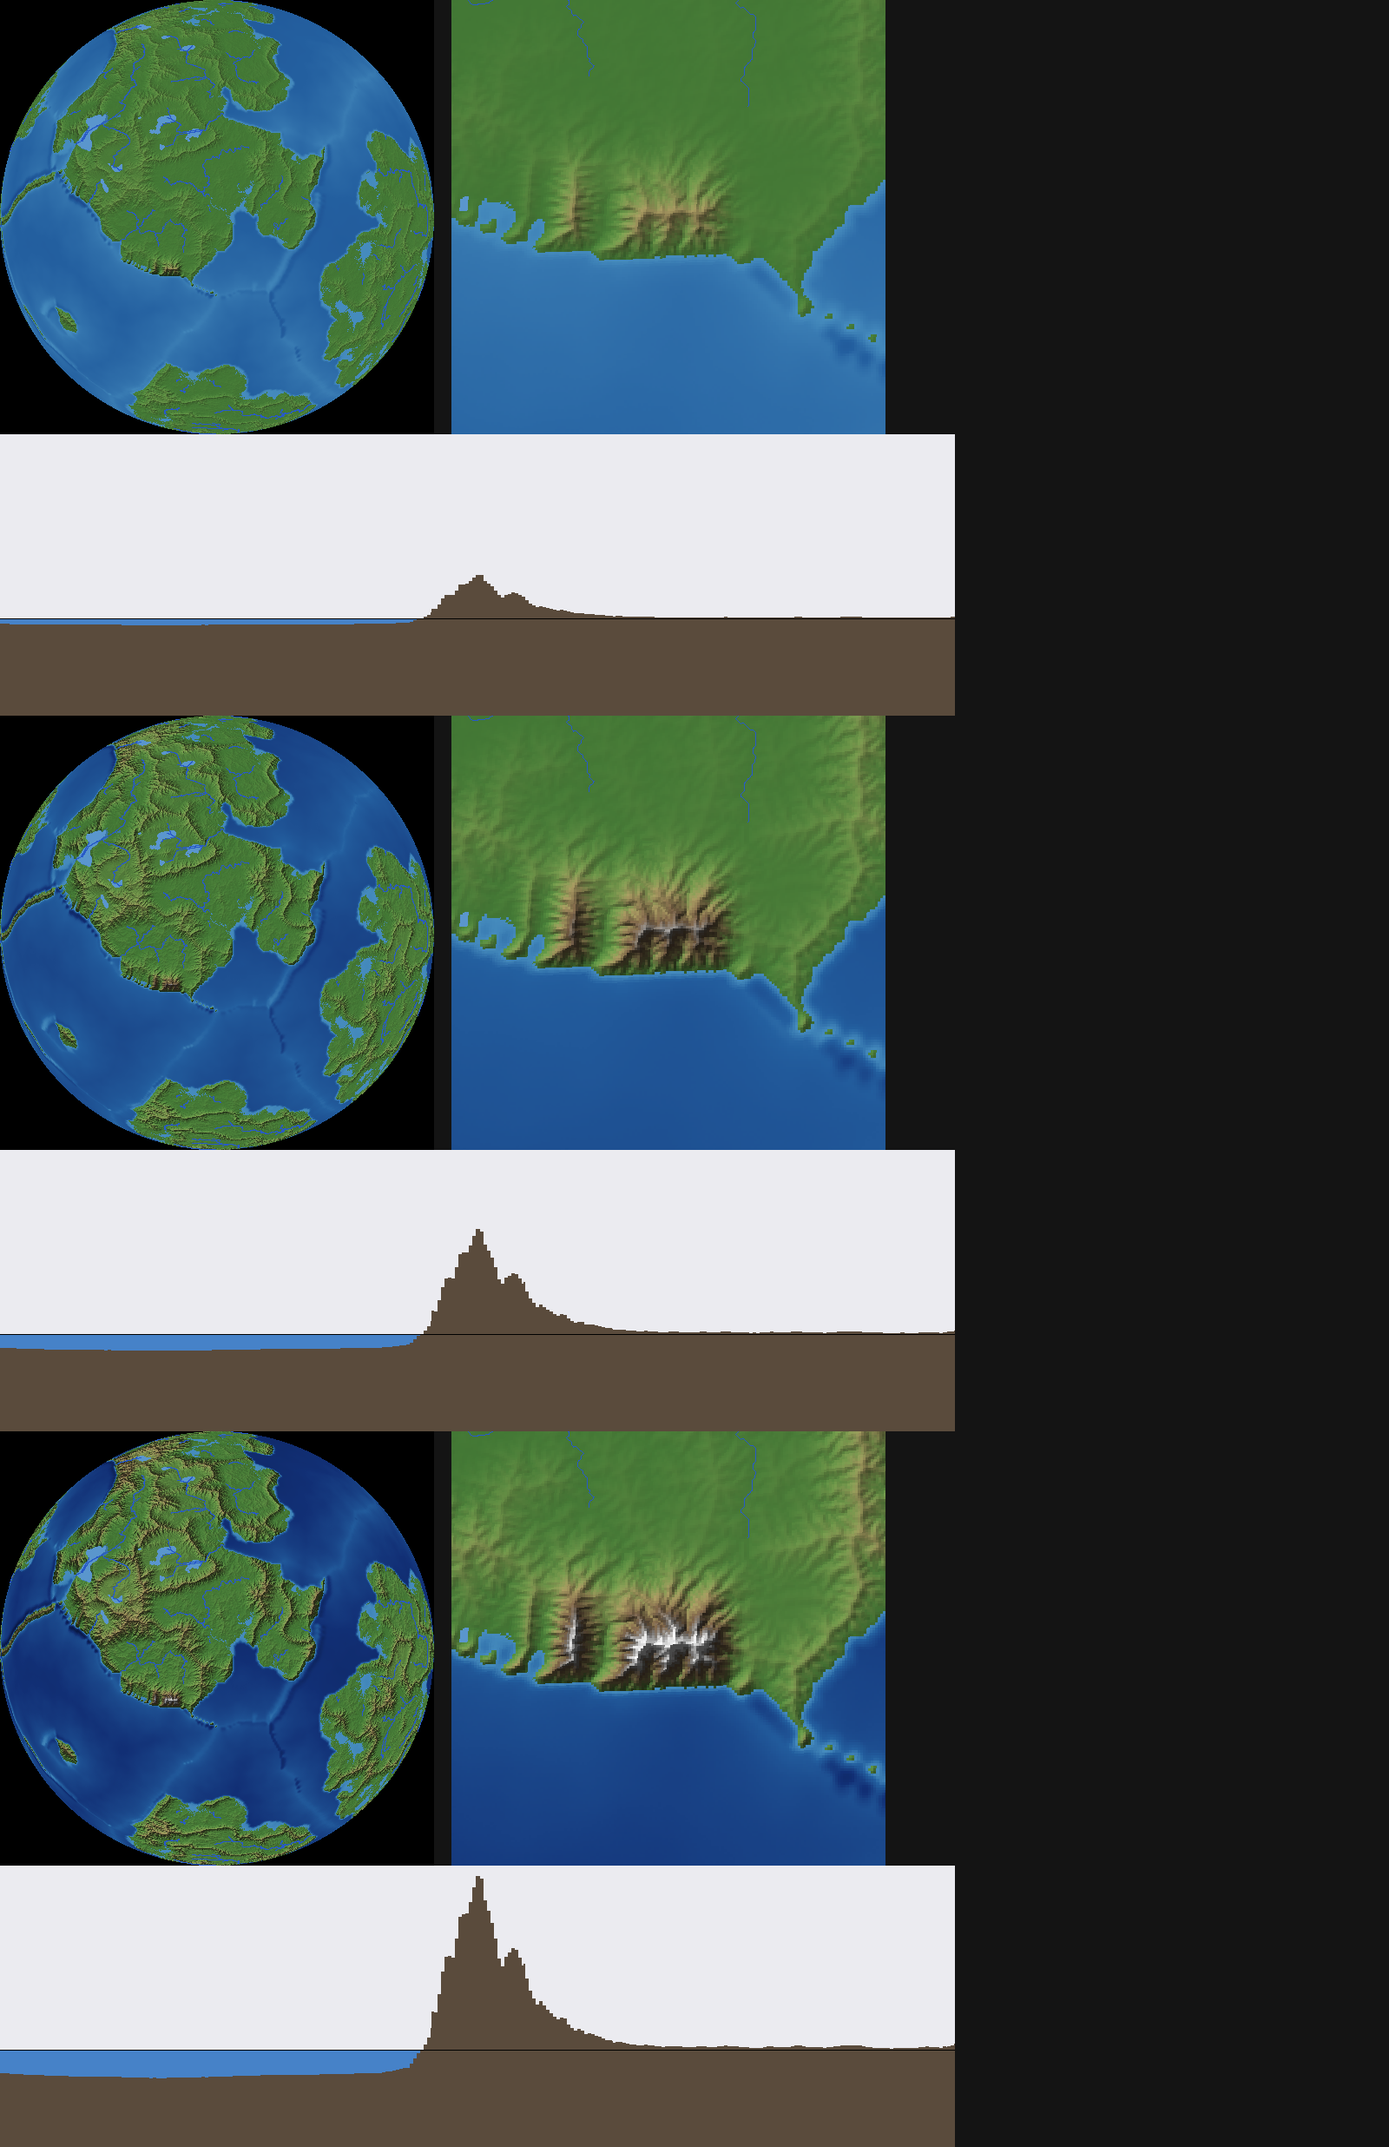
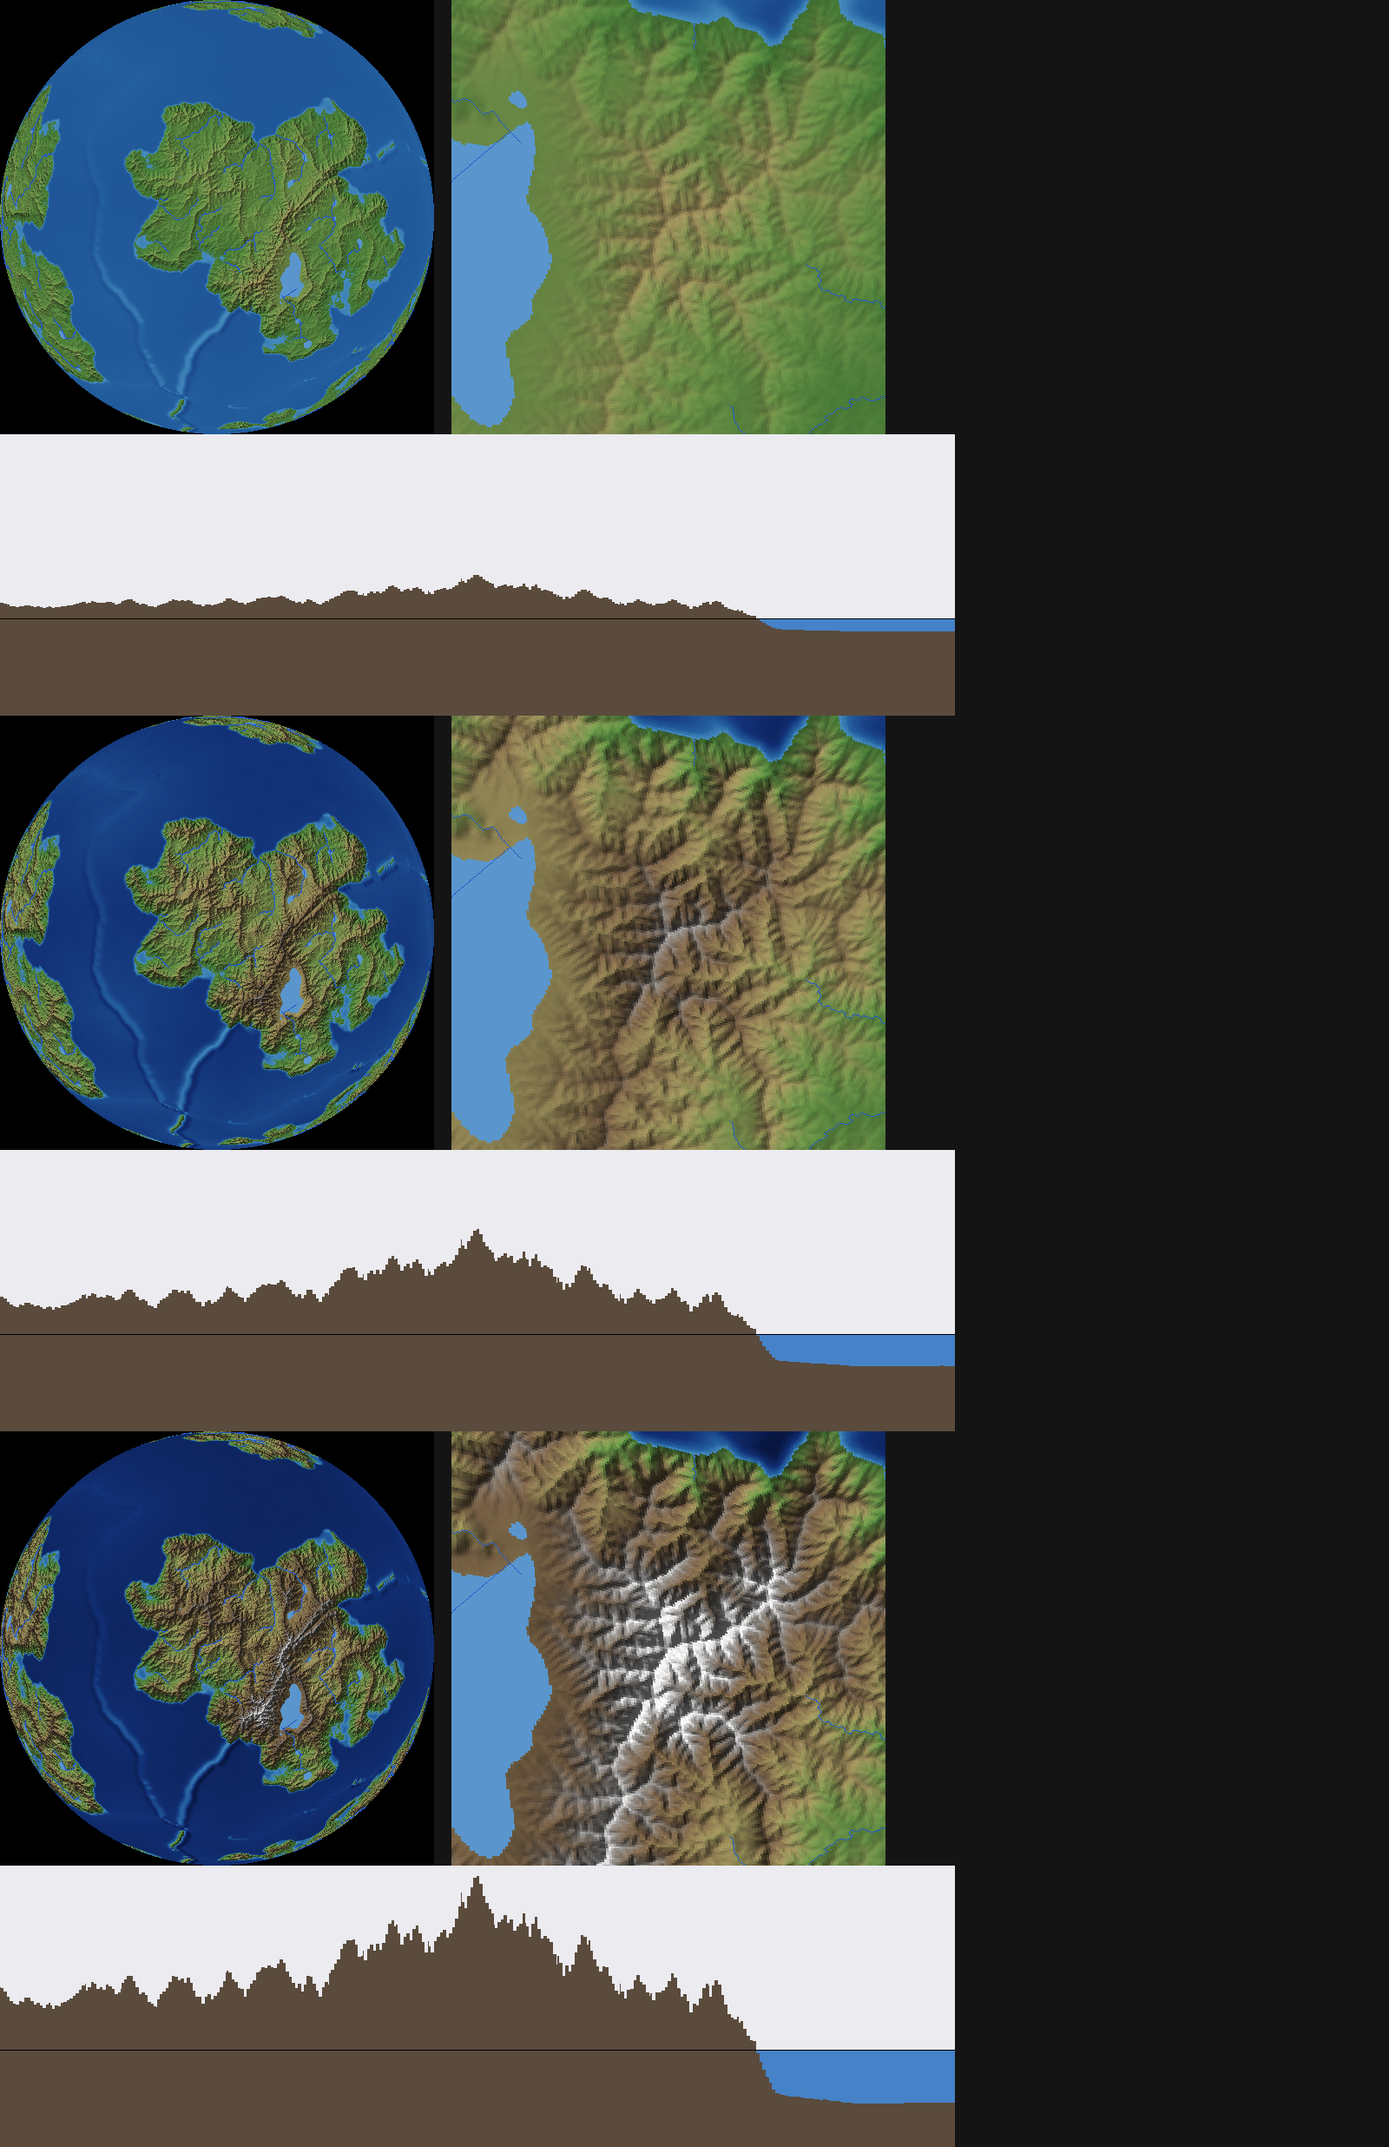
Raise the plains in the land bake, as the developer chose (worldgen W1)
The first bake left half of Terra's land within 1.5 m of the sea: mountains
only at plate edges. The developer picked "higher plains". The uplift inside
continents (old shields 0.05 to 0.35, old ranges 0.35 to 0.8, now Params)
and twice the coarse erosion steps put the median land at 8.4 m, p90 17 m,
for 50 m peaks. The price is more small lakes (117 on seed 1).

Terra now bakes in 18.4 s and the huge planet in 99.3 s; the huge planet's
file is 9.8 MB. The same seed still bakes the same hash; the rivers test and
the 12 seeds all drain. Sheets redrawn.

diff --git a/prototypes/world-bake/src/main.rs b/prototypes/world-bake/src/main.rs
@@ -21,6 +21,8 @@ fn main() {
     p.cell_m = num("cell", p.cell_m);
     p.coarse_iters = num("coarse_iters", p.coarse_iters as f64) as usize;
     p.fine_iters = num("fine_iters", p.fine_iters as f64) as usize;
+    p.shield_uplift = num("shield", p.shield_uplift);
+    p.old_range_uplift = num("old", p.old_range_uplift);
     let planet = num("planet", 12288.0) as u32;
     let out = PathBuf::from(args.get("out").map_or("out", String::as_str));
     std::fs::create_dir_all(&out).unwrap();
@@ -205,8 +207,11 @@ fn report(b: &Bake, seed: u64, planet: u32, p: &Params, disk: u64) {
     let (ws, commit) = peak_mb();
     let times: Vec<String> = b.times.iter().map(|(k, v)| format!("\"{k}\":{v:.2}")).collect();
     let lake_cells: u32 = b.lakes.iter().map(|l| l.cells).sum();
+    let mut lh: Vec<f32> = (0..b.h.len()).filter(|&c| b.land(c)).map(|c| b.h[c].max(0.0)).collect();
+    lh.sort_by(f32::total_cmp);
+    let q = |f: f64| lh.get(((lh.len().max(1) - 1) as f64 * f) as usize).copied().unwrap_or(0.0);
     println!(
-        "{{\"seed\":{seed},\"planet\":{planet},\"radius_m\":{:.0},\"cells\":{},\"cell_m\":{},\"seconds\":{{{}}},\"total_s\":{total:.2},\"peak_ws_mb\":{ws:.0},\"peak_commit_mb\":{commit:.0},\"disk_bytes\":{disk},\"hash\":\"{:016x}\",\"land_share\":{:.3},\"top_m\":{:.1},\"deep_m\":{:.1},\"plates\":{},\"rivers\":{},\"lakes\":{},\"lake_cells\":{lake_cells},\"last_change_m\":[{:.4},{:.4}],\"drains\":{}}}",
+        "{{\"seed\":{seed},\"planet\":{planet},\"radius_m\":{:.0},\"cells\":{},\"cell_m\":{},\"seconds\":{{{}}},\"total_s\":{total:.2},\"peak_ws_mb\":{ws:.0},\"peak_commit_mb\":{commit:.0},\"disk_bytes\":{disk},\"hash\":\"{:016x}\",\"land_share\":{:.3},\"top_m\":{:.1},\"deep_m\":{:.1},\"plates\":{},\"rivers\":{},\"lakes\":{},\"lake_cells\":{lake_cells},\"land_p50_p90_p99_m\":[{:.1},{:.1},{:.1}],\"last_change_m\":[{:.4},{:.4}],\"drains\":{}}}",
         b.g.r,
         b.h.len(),
         p.cell_m,
@@ -218,6 +223,9 @@ fn report(b: &Bake, seed: u64, planet: u32, p: &Params, disk: u64) {
         b.plate.iter().max().map_or(0, |m| m + 1),
         b.rivers.len(),
         b.lakes.len(),
+        q(0.5),
+        q(0.9),
+        q(0.99),
         b.converged.0 * b.scale.0,
         b.converged.1 * b.scale.0,
         check_rivers(b).is_ok(),

diff --git a/prototypes/world-bake/src/bake.rs b/prototypes/world-bake/src/bake.rs
@@ -36,6 +36,10 @@ pub struct Params {
     /// A cell is a river when it drains this much, m^2.
     pub river_area_m2: f32,
     pub plates: (u32, u32),
+    /// Uplift inside continents, as a share of the peak's: the old shields' patchy rise, and old worn
+    /// ranges along ancient sutures. These raise the plains against the ranges at the plate edges.
+    pub shield_uplift: f64,
+    pub old_range_uplift: f64,
     /// The share of crust that is continental (a little over the land share: the lowest of it is shelf).
     pub continental: f32,
     /// Feature widths as shares of the radius: they scale with the planet (ADR 0021: continents do, hills
@@ -53,7 +57,7 @@ impl Default for Params {
             ocean_share: 0.55,
             cell_m: 8.0,
             coarse: 4,
-            coarse_iters: 160,
+            coarse_iters: 320,
             fine_iters: 24,
             k: 0.5,
             m_exp: 0.5,
@@ -61,6 +65,8 @@ impl Default for Params {
             uplift: 1.0,
             river_area_m2: 1.5e5,
             plates: (8, 14),
+            shield_uplift: 0.35,
+            old_range_uplift: 0.8,
             continental: 0.48,
             collision_w: 0.05,
             arc_w: 0.035,
@@ -300,9 +306,9 @@ pub fn tectonics(g: &Grid, seed: u64, p: &Params) -> Tectonics {
         let nz = at(&base, d, 6.0) as f64;
         if cont[c] {
             // old shields far inside: a slow, patchy rise that makes hills, not ranges
-            v += 0.05 * (1.0 + nz);
+            v += p.shield_uplift * (1.0 + nz);
             // old worn ranges along ancient sutures: the ridges of a low noise
-            v += 0.35 * (1.0 - 4.0 * at(&old, d, 2.2).abs() as f64).max(0.0);
+            v += p.old_range_uplift * (1.0 - 4.0 * at(&old, d, 2.2).abs() as f64).max(0.0);
         }
         for (s, a) in &spots {
             v += a * (-(d.dot(*s).clamp(-1., 1.).acos() * r / (p.arc_w * r * 0.5)).powi(2)).exp();

diff --git a/prototypes/world-bake/README.md b/prototypes/world-bake/README.md
@@ -6,11 +6,12 @@ erosion, sea level, then rivers and lakes. The budget proposal: 30 s for Terra, 
 under 10 MB on disk, under 100 MB of server RAM. The answers are measured below.
 
 **Answer.** Yes for time and seams; memory is over the proposal.
-- **Time:** Terra bakes in **13.8 s** and the huge planet in **70.7 s** (release build, this PC).
+- **Time:** Terra bakes in **18.4 s** and the huge planet in **99.3 s** (release build, this PC), with
+  the higher plains the developer chose (below).
 - **Determinism:** the same seed gives the same hash twice, and another seed a different one.
 - **Rivers:** every river runs downhill to the sea or a lake. This is a test, seen failing first.
 - **Seams:** the seams and corners do not show, after one fix (below).
-- **Disk:** the result is **2.3 MB** for Terra and **8.2 MB** for the huge planet, compressed. That is
+- **Disk:** the result is **2.7 MB** for Terra and **9.8 MB** for the huge planet, compressed. That is
   heights, plates and rivers only; W2's full record will be bigger.
 - **Memory (over the proposal):** the bake process peaks at **174 MB** for Terra and **673 MB** for the
   huge planet.
@@ -49,7 +50,7 @@ the equi-angular warp (ADR 0003). A map cell therefore lines up with chunks.
 | grid | neighbours, distances, areas | Neighbours past a face edge come from the extended face's 3D point, found again on the sphere. Every distance is the chord and every cell area the true one, so no step knows where a face ends. Corner cells have 7 neighbours. | ADR 0003 |
 | 1 | plates | Voronoi growth on the sphere (multi-source Dijkstra) from 8 to 14 random seeds. Each plate grows at its own pace through a noisy cost, so borders wander. Each plate turns about its own Euler pole. Continental crust grows as a noisy blob inside plates until it covers 48 % of the surface. | worldgen.md stage 1; Cortial et al. 2019 |
 | 2 | boundaries | At each boundary cell, the relative velocity against the boundary's direction gives convergent, divergent or transform. Then an uplift profile by kind (table below). Distance from the boundary comes by Dijkstra. Ocean depth grows with the square root of the distance from a ridge (cooling with age). Continental margins slope down into shelves. Old worn ranges come from a ridged noise inside continents. 3 to 6 hot spots. | Cortial et al. 2019 (no time steps); plate cooling, Parsons and Sclater 1977 |
-| 3 | uplift against erosion | dh/dt = U - K A^0.5 S, solved implicitly along the receivers from the coast up. Linear hillslope diffusion. 160 steps at 32 m, then refined to 8 m with fine detail and 24 more steps. | Braun and Willett 2013 (the O(n) implicit solver); Cordonnier et al. 2016 (uplift against stream power for terrain) |
+| 3 | uplift against erosion | dh/dt = U - K A^0.5 S, solved implicitly along the receivers from the coast up. Linear hillslope diffusion. 320 steps at 32 m, then refined to 8 m with fine detail and 24 more steps. | Braun and Willett 2013 (the O(n) implicit solver); Cordonnier et al. 2016 (uplift against stream power for terrain) |
 | 3 | drainage, lakes | Priority-Flood with epsilon from the coast fills every depression to its spill point. The receiver is the steepest lower neighbour (D8). Drained area accumulates down the flood order. A cell whose filled surface stands over its ground is a lake. | Barnes, Lehman and Mulla 2014; O'Callaghan and Mark 1984 |
 | 4 | sea and coast | The sea level is found by bisection so that the connected ocean covers 55 % of the surface by area (ADR 0021). A hollow under that level inland that is smaller than 0.2 % of the surface is not sea: it fills to a lake. Heights are then scaled linearly so the highest land is `mountain_m` and the deepest sea is `sea_depth_m`. | ADR 0021 (quantile cut) |
 | 4 | rivers | Cells draining over 0.15 km² are river cells, each a segment to its receiver with its area. Lakes are the connected lake cells, with their level. | worldgen.md: "rivers as lines beside the grid" |
@@ -71,45 +72,46 @@ Seconds per stage, seed 1:
 
 | stage | Terra (N 12288, 3.5 M cells) | huge (N 24576, 14.2 M cells) |
 |---|---|---|
-| grid | 0.11 | 0.42 |
-| 1+2 plates and boundaries | 0.51 | 2.02 |
-| 3 erosion, coarse (160 steps at 32 m) | 2.64 | 12.00 |
-| refine to 8 m | 0.35 | 1.41 |
-| 3 erosion, fine (24 steps at 8 m) | 9.35 | 51.52 |
-| 4 sea and coast | 0.77 | 3.25 |
+| grid | 0.11 | 0.43 |
+| 1+2 plates and boundaries | 0.53 | 2.16 |
+| 3 erosion, coarse (320 steps at 32 m) | 5.97 | 31.27 |
+| refine to 8 m | 0.35 | 1.66 |
+| 3 erosion, fine (24 steps at 8 m) | 10.57 | 60.03 |
+| 4 sea and coast | 0.83 | 3.60 |
 | 4 rivers and lakes | 0.02 | 0.09 |
-| **total** | **13.75** (budget 30) | **70.70** (budget 120) |
+| **total** | **18.37** (budget 30) | **99.25** (budget 120) |
 | peak working set, MB | 174 | 673 |
-| on disk, gz: heights as i16 dm, plates, rivers | 2.3 MB | 8.2 MB |
+| on disk, gz: heights as i16 dm, plates, rivers | 2.7 MB | 9.8 MB |
 | uncompressed | 10.7 MB | 43.1 MB |
 
-- **Seed to seed:** 12 Terra seeds took 13 to 24 s each, including drawing between bakes.
-- **Where the time goes:** the fine erosion steps are 70 %. Each step is one Priority-Flood (a heap over
+- **Seed to seed:** 12 Terra seeds took 17 to 20 s each. A second run of seed 1 took 19.9 s.
+- **Where the time goes:** the fine erosion steps are 58 % and the coarse ones 32 %. Each step is one Priority-Flood (a heap over
   the 1.6 M land cells), a receiver pass, an O(n) accumulation and the implicit solve, about 0.4 s for
   Terra.
-  - The huge planet costs 5.1x Terra for 4x the cells: the heap's log factor and memory traffic.
+  - The huge planet costs 5.4x Terra for 4x the cells: the heap's log factor and memory traffic. At 99 s
+    it is inside the 2 min proposal, with little room.
   - Most of it is single-threaded by design (the flood and the solve run in order). Only the receivers,
     the diffusion and the refinement run on rayon, cell by cell.
-- **Steady state:** it is not reached. After the last step the largest change on land is still 1.4 m per
-  step (of 50 m relief).
-  - Twice the steps (400 coarse, 60 fine) took 41 s: the same land, a little more cut up, 28 lakes
-    instead of 34 (`out/long/`).
+- **Steady state:** it is not reached. After the last step the largest change on land is still 1.8 m per
+  step (of 50 m relief); the plains are still rising.
+  - With the old, low plains, twice the steps (400 coarse, 60 fine) took 41 s: the same land, a little
+    more cut up, 28 lakes instead of 34 (`out/long/`).
   - So the default is a choice of the wait (taste call 4), not of correctness.
 - **Memory:** 174 MB is over the 100 MB proposal. That proposal is for what the server keeps; the bake's
   arrays at their peak are a different number. What the server would keep is height and surface,
   2 x 4 bytes per cell: 28 MB for Terra and 113 MB for the huge planet as f32.
   - The bake's peak can come down by storing directions as i16 or computing them, by not cloning h each
     step, and by a flat neighbour table instead of the HashMap. That is W2's work.
-- **Disk:** 2.3 MB holds the height (i16, decimetres), the plate of each cell and the river segments.
+- **Disk:** 2.7 MB holds the height (i16, decimetres), the plate of each cell and the river segments.
   W2 adds rock, soil, climate and biome per cell (worldgen.md: about 16 bytes). These are smooth fields
-  and compress well, but the huge planet is already at 8.2 MB, so **the huge planet will exceed 10 MB**
+  and compress well, but the huge planet is already at 9.8 MB, so **the huge planet will exceed 10 MB**
   unless the stored map is coarser than 8 m there.
 
 ### Determinism
 - `cargo test`: the same seed twice gives the same hash, and another seed a different one (small planet).
 - Terra, run twice:
-  - seed 1: `9c9d3a95444b780f` and `9c9d3a95444b780f`;
-  - seed 2: `0039d6825df9dd33`.
+  - seed 1: `b3bb565958c98537` and `b3bb565958c98537`;
+  - seed 2: `47fc10f775682e0b`.
 - **How:** every queue breaks ties by cell index, every sum runs in a fixed order, and rayon only maps
   cells to values one by one. The sea level is `select_nth_unstable` (deterministic) and then a fixed
   bisection.
@@ -161,19 +163,34 @@ Seconds per stage, seed 1:
   - Every seed has 2 to 4 continents and island chains, and is clearly its own world.
   - Plate boundaries read from orbit: a long straight arc range (seed 9's coast range), island arcs and
     trenches offshore, mid-ocean ridges as pale lines.
-  - Seeds 3 and 11 have many big lakes. Seed 2 has a large open ocean with one long arc.
+  - Seed 11 is a lake district: 432 lakes on a high plateau. Seed 2 has a large open ocean with one long
+    arc.
   - Seeds 1, 5 and 7 have the most varied land: ranges, plains and gulfs.
 - **Coasts:** the coastlines are ragged in close-ups (flooded valleys, rias). The sea floor is smooth.
-- **The ranges are narrow and the land is low (the main point for the relief call):** with the relief
-  scaled by the highest peak, on Terra seed 1 at 50 m:
-  - half the land is within **1.5 m** of the sea, 90 % under 7 m, 99 % under 20 m;
-  - the sea's median is 8 m deep and its deepest 25 m;
-  - so the continents are lowland plains, and the mountains are belts a few hundred metres wide at
-    collision zones and arcs.
-  - ADR 0021's noise today has plains rising 14 m inland and hills to ±10 m.
-  - Raising `mountain_m` scales everything, so at 120 m the plains would be 3.6 m median. Alternatives
-    the code can do in a line: scale by the 99th percentile of land instead of the peak, or raise the
-    interior uplift.
+- **Higher plains (the developer's call, 2026-11-11).**
+  - **The first bake** scaled the relief by the highest peak and had little uplift inside continents. Half
+    the land lay within 1.5 m of the sea, 90 % under 7 m and 99 % under 20 m (seed 1, 50 m). The
+    continents were lowland plains, with mountains only in narrow belts at the plate edges. ADR 0021's
+    noise has plains rising 14 m inland and hills to ±10 m.
+  - **Asked "higher plains"**, the uplift inside continents went up and the coarse erosion got twice the
+    steps. The old shields went from 0.05 to 0.35 of the peak uplift and the old worn ranges from 0.35 to
+    0.8 (`Params::shield_uplift`, `old_range_uplift`). Measured on seed 1, land heights at the 50th, 90th
+    and 99th percentile, in metres:
+
+| shields / old ranges | coarse steps | p50 | p90 | p99 | lakes | Terra s |
+|---|---|---|---|---|---|---|
+| 0.05 / 0.35 (first bake) | 160 | 1.6 | 7.2 | 19.8 | 34 | 15.9 |
+| 0.2 / 0.6 | 160 | 4.1 | 12.0 | 21.6 | 48 | 16.4 |
+| 0.35 / 0.8 | 160 | 6.3 | 15.2 | 24.1 | 91 | 16.9 |
+| 0.5 / 1.0 | 160 | 7.9 | 17.4 | 26.6 | 197 | 15.4 |
+| **0.35 / 0.8 (default now)** | **320** | **8.4** | **17.1** | **25.7** | **117** | **18.4** |
+| 0.5 / 1.0 | 320 | 10.7 | 20.0 | 28.8 | 136 | 18.3 |
+
+  - The default gives every continent highlands, ranges and cut valleys, not one coast range on a plain.
+    Over the 12 seeds the median land height is 8 to 15 m.
+  - **The price is lakes:** 49 to 432 per seed (1.5 % of the land on seed 1), mostly small basins where
+    uplift outruns the rivers. Seed 11 is a lake district.
+  - Stronger plains (0.5 / 1.0) gave more lakes for 2 m more of median height, so I stopped at 0.35 / 0.8.
 - **The shape stays across the variants:** relief is the last, linear step, so the three variants are one
   shape at three heights. At 200 m the snow line shows; at 50 m the coast range is a hill.
 
